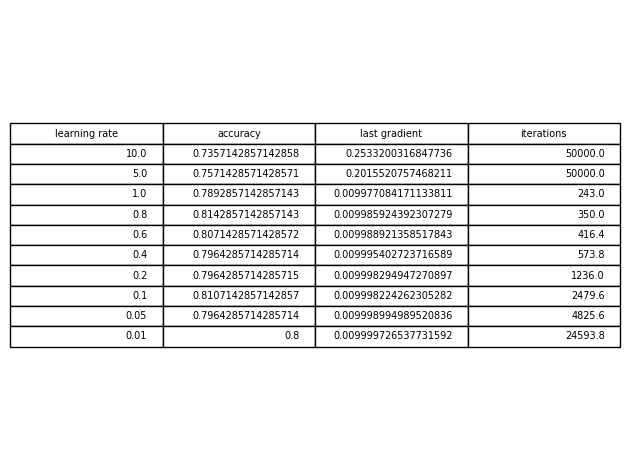
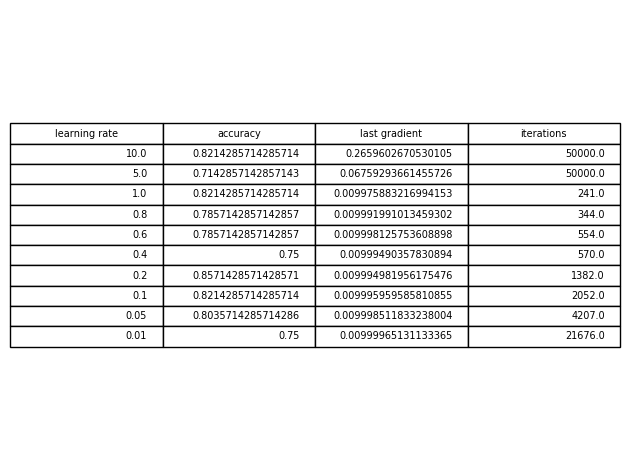
HP tuning results

diff --git a/Project1/src/HPTuning.py b/Project1/src/HPTuning.py
@@ -43,7 +43,7 @@ if dataset == 'ionosphere':
 
     for rate in learning_rates:
         r = cross_validation(5, X_train.to_numpy(), Processor.ToNumpyCol(Y_train), LogisticRegression(),
-                             learning_rate=rate, max_gradient=1e-2, max_iters=50000, random=True)
+                             learning_rate=rate, max_gradient=1e-2, max_iters=50000, random=False)
         r.insert(0, rate)
         results.append(r)
 
@@ -51,6 +51,7 @@ if dataset == 'ionosphere':
     df_to_table(df, 'ionosphere_table')
 
 elif dataset == 'adult':
+    print("Analyzing adult data set")
     path = "../datasets/adult/adult.data"
 
     header = ['age', 'workclass', 'fnlwgt', 'education', 'education-num', 'marital-status', 'occupation',
@@ -65,16 +66,44 @@ elif dataset == 'adult':
 
     [X_train, X_test, Y_train, Y_test] = Processor.split(X, Y, train=0.8)
 
-    learning_rates = [0.2, 0.1]
+    learning_rates = [0.5, 0.2, 0.15, 0.1, 0.05]
 
     results = []
 
     for rate in learning_rates:
         r = cross_validation(5, X_train.to_numpy(), Processor.ToNumpyCol(Y_train), LogisticRegression(),
-                             learning_rate=rate, max_gradient=1e-2, max_iters=10000, random=True)
+                             learning_rate=rate, max_gradient=1e-2, max_iters=20000, random=False)
         r.insert(0, rate)
         results.append(r)
 
     df = pd.DataFrame(results, columns=['learning rate', 'accuracy', 'last gradient', 'iterations'])
     print(df)
-    # df_to_table(df, 'adult_table')
+    df_to_table(df, 'adult_table')
+
+elif dataset == "mam":
+    print("Analyzing mammography data set")
+    path = "./datasets/mam/mam.data"
+    header = ["BI-RADS", "age", "shape", "margin", "density", "result"]
+    All = Processor.read(path, header)
+
+    [X, Y] = Clean.mam(All)
+
+    [X_train, X_test, Y_train, Y_test] = Processor.split(X, Y, train=0.8)
+
+    learning_rates = [0.5, 0.2, 0.15, 0.1, 0.05]
+
+    results = []
+
+    for rate in learning_rates:
+        r = cross_validation(5, X_train.to_numpy(), Processor.ToNumpyCol(Y_train), LogisticRegression(),
+                             learning_rate=rate, max_gradient=1e-1, max_iters=10000, random=False)
+        r.insert(0, rate)
+        results.append(r)
+
+    df = pd.DataFrame(results, columns=['learning rate', 'accuracy', 'last gradient', 'iterations'])
+    print(df)
+    df_to_table(df, 'mam_table')
+
+
+elif dataset == "ttt":
+    pass
